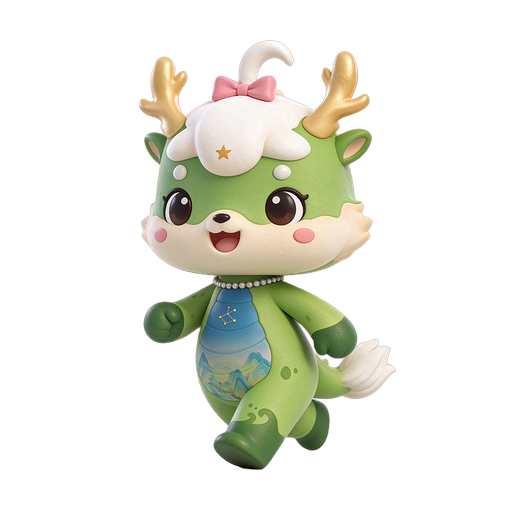
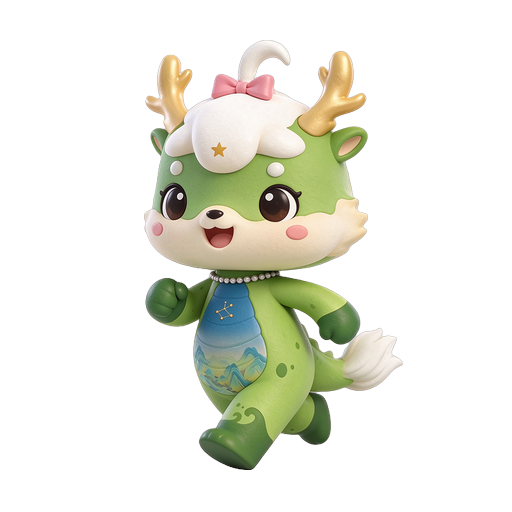
1.9.11: 三只跑步帧重建，手臂前后交替摆动，边缘去白边

diff --git a/lib/client.js b/lib/client.js
@@ -98,7 +98,7 @@ window.__ModuleLoader__.load({
     // v141：矢量地图补回"手绘景区小景"（大金湖小船 / 朱熹像 / 桃源洞 / 安良堡 / 天鹅洞 …），
     //       所以版本号必须跟着改，否则浏览器会继续用旧地图（immutable 缓存）。
     // 1.8.20：第四批——每只一套四帧"离地跳跃"，版本号再升一位
-    const ASSET_REV = 'v199'
+    const ASSET_REV = 'v1911'
 
     /*
      * 巡游手持特产的实物图（1.7.3）。

diff --git a/lib/host.js b/lib/host.js
@@ -52,7 +52,7 @@ const API_PREFIX = '/api/sanming-pet'
 
 /** 插件版本号：状态弹窗里展示，方便确认升级后页面确实换成了新代码。 */
 // 1.3.0：悬浮桌宠（shell.overlay）+ 模型选择（跟随会话默认/自选 provider+model）+ 模型润色问答
-const PLUGIN_VERSION = '1.9.10'
+const PLUGIN_VERSION = '1.9.11'
 
 /** 1.9.3：JEV 探测失败后的冷却截止时间（毫秒）。冷却期内知识库问答直接走 BM25。 */
 let _jevCooldownUntil = 0
